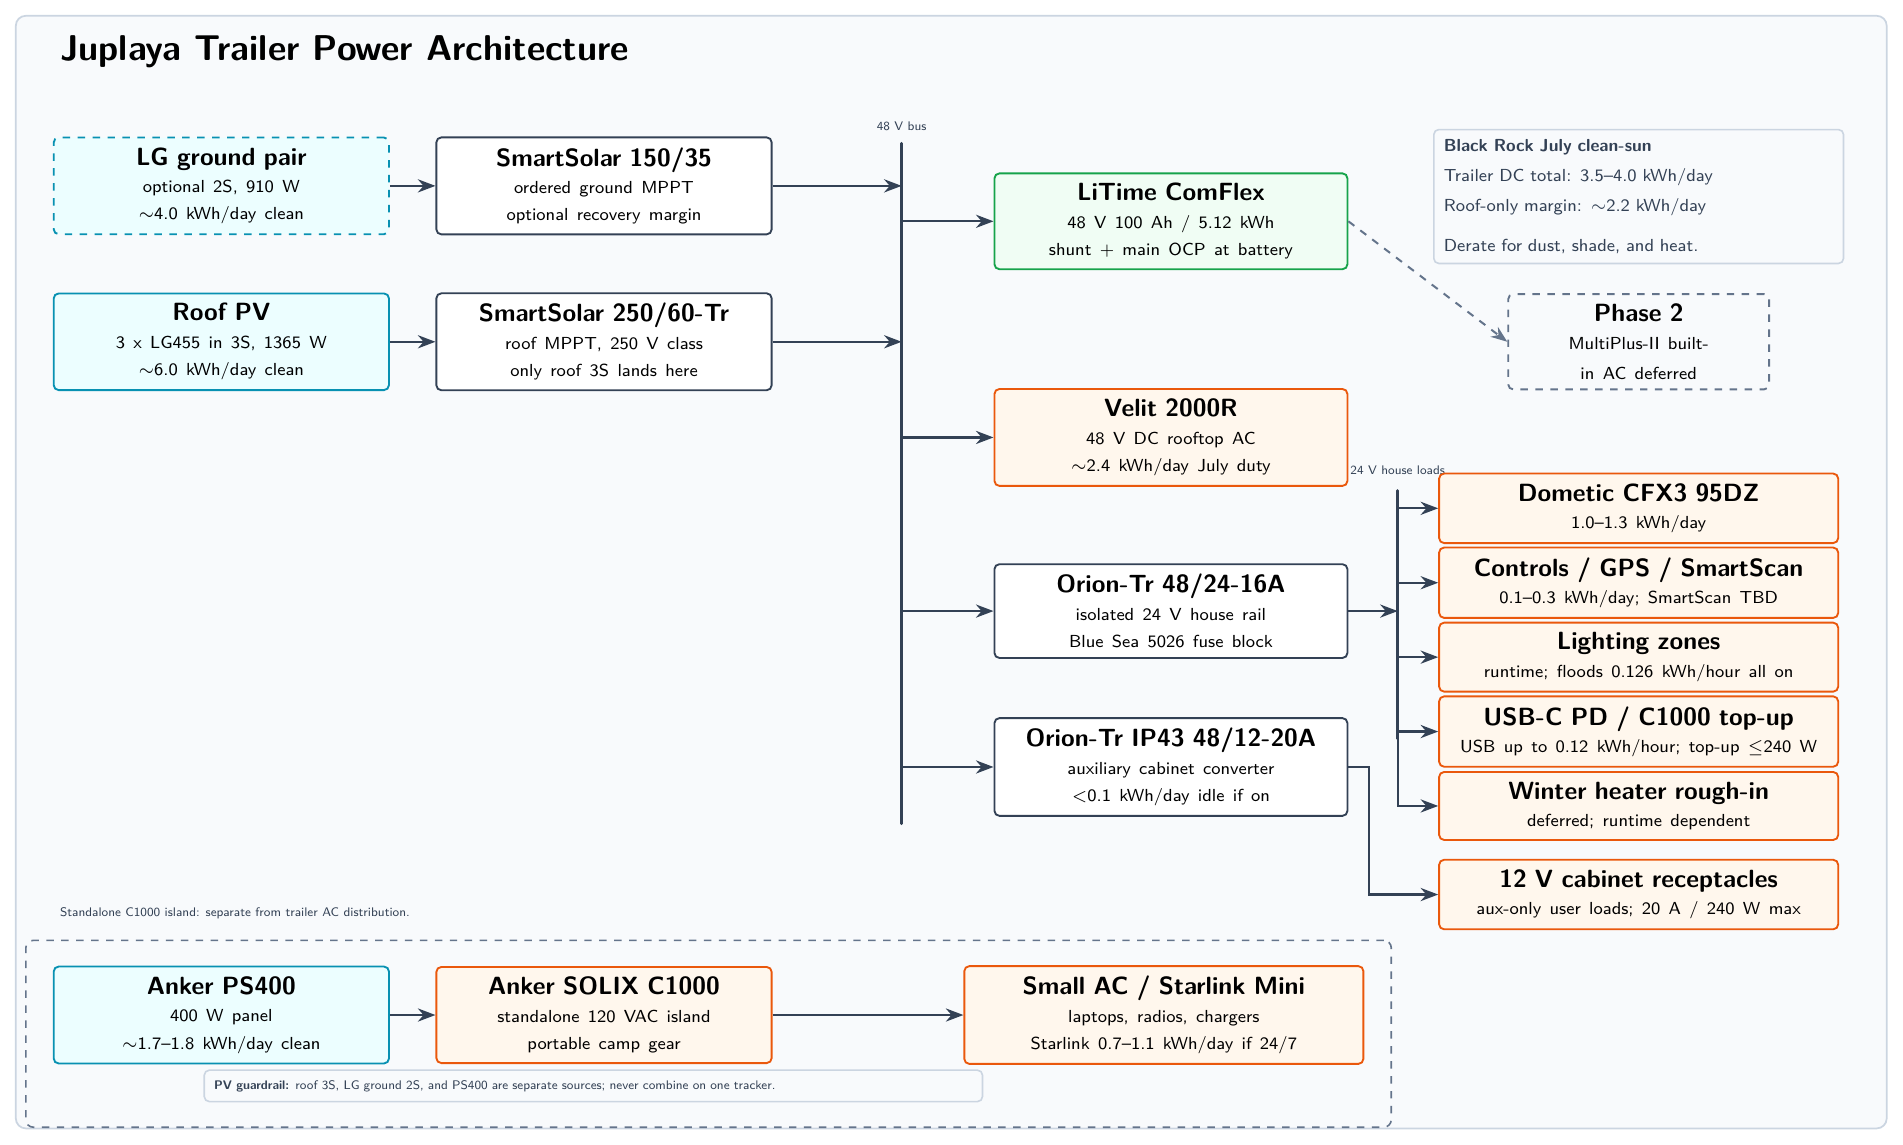
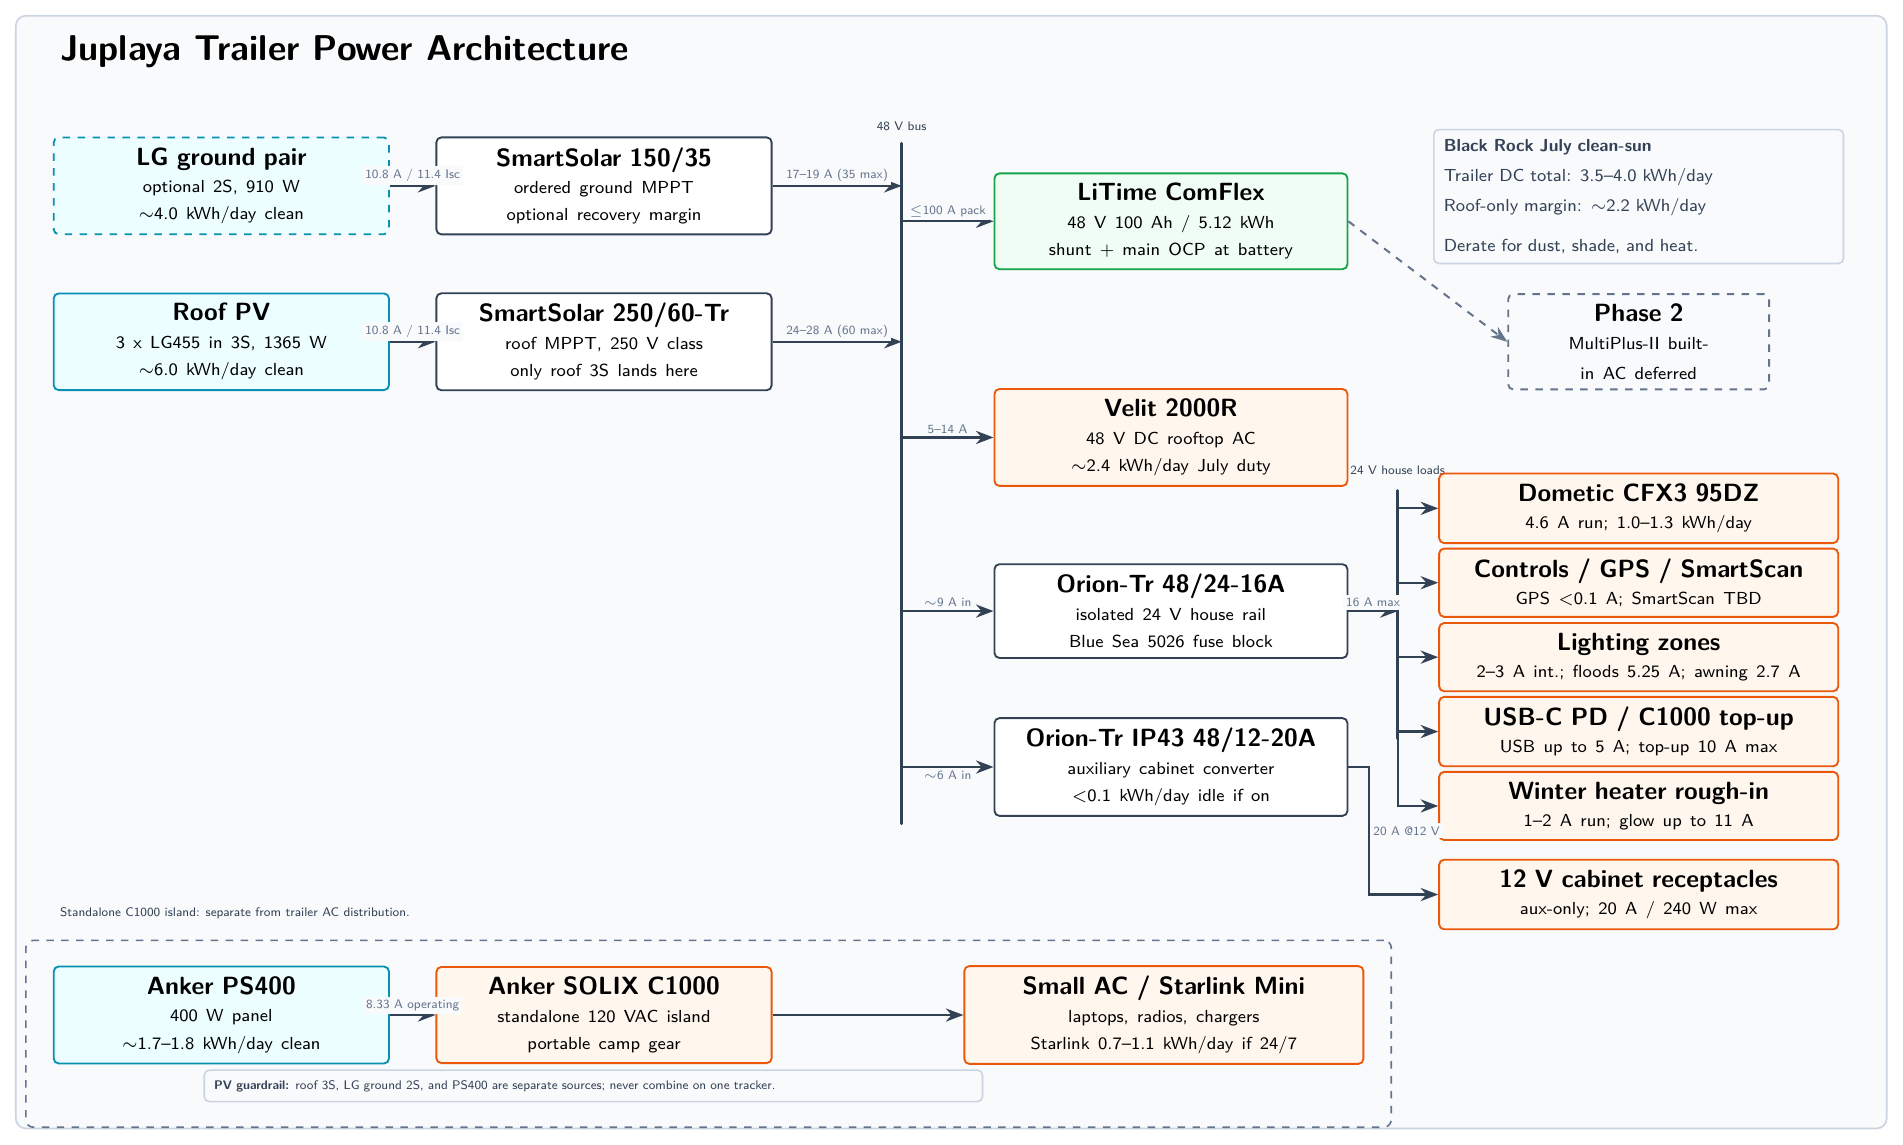
Add power lead calculations

diff --git a/docs/diagrams/power-lead-calculations.tex b/docs/diagrams/power-lead-calculations.tex
@@ -1,0 +1,103 @@
+\documentclass[10pt]{article}
+\usepackage[letterpaper,landscape,margin=0.45in]{geometry}
+\usepackage{array}
+\usepackage{booktabs}
+\usepackage{longtable}
+\usepackage{xcolor}
+\usepackage{hyperref}
+
+\definecolor{slate}{HTML}{334155}
+\definecolor{muted}{HTML}{64748B}
+\definecolor{lightrow}{HTML}{F8FAFC}
+
+\hypersetup{colorlinks=true, linkcolor=slate, urlcolor=slate}
+\renewcommand{\arraystretch}{1.15}
+\setlength{\tabcolsep}{2pt}
+\setlength{\parindent}{0pt}
+\setlength{\parskip}{4pt}
+\newcolumntype{L}[1]{>{\raggedright\arraybackslash}p{#1}}
+\emergencystretch=3em
+
+\begin{document}
+
+{\LARGE\bfseries Juplaya Trailer Power Lead Calculations}
+
+{\small Planning worksheet for the TikZ power overview. This is not a final wiring schematic or code sign-off. Fuse class, interrupt rating, insulation type, conduit/bundle derating, crimp hardware, strain relief, and exact route lengths still need the measured install drawing.}
+
+\section*{Inputs and Hot-Day Assumptions}
+
+\begin{tabular}{@{}p{0.24\linewidth}p{0.70\linewidth}@{}}
+\toprule
+Item & Value used \\
+\midrule
+Primary sources & Project source files listed below the assumptions table; numeric values come from the current power design and local component spec notes. \\
+Peak environment & Hot summer design ambient: 46 C / 115 F. Voltage-drop calculations use 75 C conductor resistance, so the assumed conductor rise for the drop calculation is \(\Delta T = 29\) C above ambient. \\
+Copper temperature correction & \(R_T = R_{20}[1 + 0.00393(T-20)]\), with \(T=75\) C. \\
+Voltage drop & \(V_{drop}=2LI R_T/1000\), where \(L\) is one-way length in ft and \(R_T\) is ohms per 1000 ft at 75 C. \\
+PV module current & LG455N2W-E6: \(I_{mpp}=10.83\) A and \(I_{sc}=11.39\) A. Series strings keep the same current. \\
+Charge-current convention & PV-string labels show string current. MPPT-to-battery labels show approximate 48 V charge current and controller output limit. \\
+Wire-size convention & ``Minimum / plan'' means the smallest conductor selected for this planning model after ampacity and voltage-drop screening. It is not permission to ignore OCP, terminal temperature, bundling, conduit fill, or manufacturer instructions. \\
+\bottomrule
+\end{tabular}
+
+{\footnotesize Source files: \texttt{docs/power.md}; LG455, Victron SmartSolar, Anker C1000/PS400, LiTime ComFlex, Dometic CFX3, and Orion reference notes under \texttt{docs/reference/}; Velit current range from \texttt{docs/research/aio-inverter-3panel-evidence-2026-06-05.md}.}
+
+\section*{Peak Current Notes}
+
+\begin{itemize}
+\item Roof PV: \(3 \times 455\) W = 1365 W. Approximate 48 V charge current is 1365 W / 48 V = 28.4 A; at 57.6 V absorption it is 23.7 A. The SmartSolar 250/60-Tr output limit is 60 A.
+\item Optional LG ground PV: \(2 \times 455\) W = 910 W. Approximate 48 V charge current is 19.0 A at 48 V and 15.8 A at 57.6 V. The SmartSolar 150/35 output limit is 35 A.
+\item Velit 2000R: source notes carry about 5--14 A at 48 V, rated about 670 W. Use 14 A for branch voltage-drop sizing until the final manual/fuse value is confirmed.
+\item 24 V bus: the Orion-Tr 48/24-16A is the hard rail limit. Fridge + normal lighting + USB fits; all floods, full awning, USB-C full load, optional C1000 top-up, and heater glow do not fit simultaneously.
+\item Phase 2 MultiPlus is deferred. If AC charging is added later, combined trailer charging must still be capped at or below the 100 A ComFlex charge limit.
+\end{itemize}
+
+\section*{Lead Sizing Worksheet}
+
+{\scriptsize
+\begin{longtable}{@{}L{0.18\linewidth}L{0.12\linewidth}L{0.07\linewidth}L{0.08\linewidth}L{0.12\linewidth}L{0.10\linewidth}L{0.11\linewidth}L{0.13\linewidth}@{}}
+\toprule
+Lead & Current basis & Circuit V & Assumed one-way length & Required ampacity basis & Minimum / plan conductor & Worst-case drop at 75 C & Notes \\
+\midrule
+\endfirsthead
+\toprule
+Lead & Current basis & Circuit V & Assumed one-way length & Required ampacity basis & Minimum / plan conductor & Worst-case drop at 75 C & Notes \\
+\midrule
+\endhead
+Roof 3S PV string to SmartSolar 250/60-Tr & 10.83 A MPP; 11.39 A Isc & 126.3 Vmp & 20 ft & PV conductor and OCP at or above 20 A module series-fuse class & 10 AWG / 2.59 mm & 0.53 V / 0.4\% & 3S raises voltage; current stays one-panel current. \\
+Optional LG ground 2S string to SmartSolar 150/35 & 10.83 A MPP; 11.39 A Isc & 84.2 Vmp & 50 ft & PV conductor and OCP at or above 20 A module series-fuse class & 10 AWG / 2.59 mm & 1.32 V / 1.6\% & Portable length assumption; measure actual deployable lead. \\
+SmartSolar 250/60-Tr to 48 V bus & 24--28 A expected; 60 A controller limit & 57.6 V charge & 4 ft & 60 A controller output & 6 AWG / 4.12 mm & 0.23 V / 0.4\% & Size OCP to controller and conductor, not average harvest. \\
+SmartSolar 150/35 to 48 V bus & 16--19 A expected; 35 A controller limit & 57.6 V charge & 4 ft & 35 A controller output & 8 AWG / 3.26 mm & 0.21 V / 0.4\% & Optional source, but full-output conductor basis. \\
+Battery main OCP / shunt / 48 V bus & 100 A continuous pack limit & 51.2 V nominal & 3 ft & 100 A charge/discharge limit, plus interrupt-rating gate & 2 AWG / 6.54 mm & 0.11 V / 0.2\% & Main OCP class and interrupt rating remain open. \\
+48 V bus to Velit 2000R branch & 5--14 A operating range & 48 V nominal & 15 ft & At least 14 A plus final Velit OCP value & 12 AWG / 2.05 mm & 0.81 V / 1.7\% & Use final Velit manual/fuse value when available. \\
+48 V bus to Orion 48/24 input & About 9.2 A at 384 W output and 87\% assumed efficiency & 48 V nominal & 4 ft & 20 A input breaker class from build notes & 12 AWG / 2.05 mm & 0.14 V / 0.3\% & Efficiency is assumed pending exact 48/24 datasheet row. \\
+Orion 24 V output to Blue Sea 5026 & 16 A converter output limit & 24 V regulated & 3 ft & 16 A rail output & 12 AWG / 2.05 mm & 0.19 V / 0.8\% & Converter is the bus bottleneck. \\
+Fridge branch & 4.6 A running & 24 V regulated & 18 ft & 10 A branch fuse; 3\% voltage-drop target & 14 AWG / 1.63 mm & 0.51 V / 2.1\% & Matches current build note if one-way run stays near 18 ft. \\
+Longest lighting/flood trunk & 8 A planning trunk load & 24 V regulated & 35 ft & 5 A per branch; trunk must match aggregate branch plan & 10 AWG / 2.59 mm & 0.68 V / 2.8\% & Long exterior runs drive the size; local zones may be smaller. \\
+USB-C PD branch & 5 A full USB-C load & 24 V regulated & 12 ft & 7.5 A branch fuse & 14 AWG / 1.63 mm & 0.37 V / 1.5\% & Full USB-C load is a short-duration worst case. \\
+Optional C1000 top-up from 24 V bus & 10 A C1000 low-voltage input limit & 24 V regulated & 8 ft & 10 A manual/fused branch & 12 AWG / 2.05 mm & 0.31 V / 1.3\% & Discretionary; shed before it starves fridge/house loads. \\
+Winter heater rough-in & 1--2 A run; up to 11 A glow estimate & 24 V regulated & 25 ft & 15 A rough-in branch & 10 AWG / 2.59 mm & 0.67 V / 2.8\% & Docs mention 12 AWG; 10 AWG is the voltage-drop planning pick at this assumed length. \\
+48 V bus to Orion 48/12 input & 5.8 A at 240 W output and 87\% efficiency & 48 V nominal & 4 ft & Input OCP sized to converter and conductor & 14 AWG / 1.63 mm & 0.14 V / 0.3\% & 12 V receptacles stay cabinet-local only. \\
+12 V cabinet receptacle bank & 20 A / 240 W converter output & 12.2 V regulated & 3 ft & 20 A converter output, branches fused individually & 12 AWG / 2.05 mm & 0.23 V / 1.9\% & Keep physically short; do not distribute a 12 V house rail. \\
+Anker PS400 to C1000 & 8.33 A operating; C1000 high-range input allows 12.5 A & 48 V operating & 15 ft & Anker cable/input rating & 10 AWG / 2.59 mm & 0.30 V / 0.6\% & Separate portable island; never combine with LG strings. \\
+\bottomrule
+\end{longtable}
+}
+
+\section*{Load-Shedding Implications}
+
+The 24 V rail cannot be sized by summing every optional load and pretending they are simultaneous. A literal worst case is fridge 4.6 A + interior lights 3 A + all exterior floods 5.25 A + awning strip 2.7 A + USB-C 5 A + C1000 top-up 10 A = 30.55 A before heater glow. That is almost twice the 16 A Orion limit. The operating rule is therefore part of the electrical design: C1000 top-up, all-floods mode, full USB-C load, and heater glow are mutually managed loads.
+
+The roof and ground MPPT outputs are the opposite case: normal current is below controller capacity, but the conductor/OCP basis should follow controller output limits. Roof plus optional ground charging at expected full-array output is roughly 40--47 A depending on battery voltage. If both controllers are allowed to their hardware limits, they can contribute up to 95 A, still below the ComFlex 100 A charge cap, but leaving no room for a future AC charger.
+
+\section*{Open Measurements Before Final Wiring}
+
+\begin{itemize}
+\item Replace every assumed one-way length with measured route length after the nose cabinet, roof gland, Velit station, fridge bay, switch panel, and exterior lighting paths are fixed.
+\item Confirm conductor insulation temperature rating, strand class, terminal temperature limits, conduit or loom bundling, and whether any wire runs share hot cabinet air.
+\item Choose final 48 V OCP hardware with adequate DC interrupt rating. The main battery OCP remains a Class-T-or-equivalent gate.
+\item Bench-measure SmartScan and winter-heater glow current before making them part of a simultaneous-load case.
+\item After shakedown, measure voltage at the load while hot and loaded; the calculated drops are only as good as the assumed lengths and terminations.
+\end{itemize}
+
+\end{document}

diff --git a/docs/diagrams/power-overview.tex b/docs/diagrams/power-overview.tex
@@ -43,6 +43,13 @@
     font=\sffamily\tiny,
     text=slate
   },
+  leadlabel/.style={
+    font=\sffamily\tiny,
+    text=slateLight,
+    fill=noteFill,
+    inner sep=1.2pt,
+    align=center
+  },
   island/.style={
     draw=slateLight,
     fill=noteFill,
@@ -122,27 +129,27 @@
 
 \node[load, text width=5.35cm, minimum height=0.8cm] (fridge) at (22.65,9.00)
   {{\bfseries Dometic CFX3 95DZ}\\[-1pt]
-   {\scriptsize 1.0--1.3 kWh/day}};
+   {\scriptsize 4.6 A run; 1.0--1.3 kWh/day}};
 
 \node[load, text width=5.35cm, minimum height=0.8cm] (controls) at (22.65,7.95)
   {{\bfseries Controls / GPS / SmartScan}\\[-1pt]
-   {\scriptsize 0.1--0.3 kWh/day; SmartScan TBD}};
+   {\scriptsize GPS \(<\)0.1 A; SmartScan TBD}};
 
 \node[load, text width=5.35cm, minimum height=0.8cm] (lights) at (22.65,6.90)
   {{\bfseries Lighting zones}\\[-1pt]
-   {\scriptsize runtime; floods 0.126 kWh/hour all on}};
+   {\scriptsize 2--3 A int.; floods 5.25 A; awning 2.7 A}};
 
 \node[load, text width=5.35cm, minimum height=0.8cm] (usb) at (22.65,5.85)
   {{\bfseries USB-C PD / C1000 top-up}\\[-1pt]
-   {\scriptsize USB up to 0.12 kWh/hour; top-up \(\le\)240 W}};
+   {\scriptsize USB up to 5 A; top-up 10 A max}};
 
 \node[load, text width=5.35cm, minimum height=0.8cm] (heater) at (22.65,4.80)
   {{\bfseries Winter heater rough-in}\\[-1pt]
-   {\scriptsize deferred; runtime dependent}};
+   {\scriptsize 1--2 A run; glow up to 11 A}};
 
 \node[load, text width=5.35cm, minimum height=0.8cm] (cab12) at (22.65,3.55)
   {{\bfseries 12 V cabinet receptacles}\\[-1pt]
-   {\scriptsize aux-only user loads; 20 A / 240 W max}};
+   {\scriptsize aux-only; 20 A / 240 W max}};
 
 \node[phase, text width=3.4cm, minimum height=1.0cm] (phase2) at (22.65,11.35)
   {{\bfseries Phase 2}\\[-1pt]
@@ -180,24 +187,24 @@
 \end{scope}
 
 % Power-flow arrows.
-\draw[arr] (groundpv.east) -- (groundmppt.west);
-\draw[arr] (groundmppt.east) -- (busGround);
-\draw[arr] (roofpv.east) -- (roofmppt.west);
-\draw[arr] (roofmppt.east) -- (busRoof);
-\draw[arr] (busBattery) -- (battery.west);
-\draw[arr] (busVelit) -- (velit.west);
-\draw[arr] (busOrion24) -- (orion24.west);
-\draw[arr] (busOrion12) -- (orion12.west);
-\draw[arr] (orion24.east) -- (19.25,7.55);
+\draw[arr] (groundpv.east) -- node[leadlabel, above] {10.8 A / 11.4 Isc} (groundmppt.west);
+\draw[arr] (groundmppt.east) -- node[leadlabel, above] {17--19 A (35 max)} (busGround);
+\draw[arr] (roofpv.east) -- node[leadlabel, above] {10.8 A / 11.4 Isc} (roofmppt.west);
+\draw[arr] (roofmppt.east) -- node[leadlabel, above] {24--28 A (60 max)} (busRoof);
+\draw[arr] (busBattery) -- node[leadlabel, above] {\(\le\)100 A pack} (battery.west);
+\draw[arr] (busVelit) -- node[leadlabel, above] {5--14 A} (velit.west);
+\draw[arr] (busOrion24) -- node[leadlabel, above] {\(\sim\)9 A in} (orion24.west);
+\draw[arr] (busOrion12) -- node[leadlabel, below] {\(\sim\)6 A in} (orion12.west);
+\draw[arr] (orion24.east) -- node[leadlabel, above] {16 A max} (19.25,7.55);
 \draw[arr] (19.25,9.00) -- (fridge.west);
 \draw[arr] (19.25,7.95) -- (controls.west);
 \draw[arr] (19.25,6.90) -- (lights.west);
 \draw[arr] (19.25,5.85) -- (usb.west);
 \draw[arr] (19.25,5.75) |- (heater.west);
-\draw[arr] (orion12.east) -- (18.85,5.35) -- (18.85,3.55) -- (cab12.west);
+\draw[arr] (orion12.east) -- (18.85,5.35) -- node[leadlabel, right] {20 A @12 V} (18.85,3.55) -- (cab12.west);
 \draw[softarr] (battery.east) -- (phase2.west);
 
-\draw[arr] (ps400.east) -- (c1000.west);
+\draw[arr] (ps400.east) -- node[leadlabel, above] {8.33 A operating} (c1000.west);
 \draw[arr] (c1000.east) -- (acloads.west);
 
 \end{tikzpicture}

diff --git a/docs/diagrams/power-overview-qa.md b/docs/diagrams/power-overview-qa.md
@@ -8,6 +8,11 @@ Artifacts:
 - `docs/diagrams/power-overview.pdf`
 - `docs/diagrams/power-overview.png`
 - `docs/diagrams/power-overview-visual-qa.json`
+- `docs/diagrams/power-lead-calculations.tex`
+- `docs/diagrams/power-lead-calculations.pdf`
+- `docs/diagrams/power-lead-calculations-1.png`
+- `docs/diagrams/power-lead-calculations-2.png`
+- `docs/diagrams/power-lead-calculations-3.png`
 
 Sources checked:
 
@@ -20,15 +25,17 @@ Sources checked:
 Checks:
 
 - Static TikZ safety: pass.
-- Compile/render: pass with `xelatex` through the `tikz-diagrams` `compile_render.py` helper.
+- Overview compile/render: pass with `xelatex` through the `tikz-diagrams` `compile_render.py` helper.
 - Rendered visual QA: pass in research mode.
-- Manual PNG inspection: no severe text overlap, clipping, blank output, route crossing through labels, or slide-fit failure found after the final render.
+- Calculation sheet compile: pass with `latexmk -xelatex`.
+- Calculation sheet page renders: pass with `pdftoppm`; pages inspected manually.
+- Manual PNG inspection: no severe text overlap, clipping, blank output, route crossing through labels, table clipping, or slide-fit failure found after the final render.
 
 Design critique outcome: keep.
 
-Math/diagram logic review: schematic.
+Math/diagram logic review: schematic for topology; exact arithmetic within stated assumptions for the lead-current and voltage-drop worksheet.
 
-Model or equations: no plotted equations or scale geometry. Numeric labels are sourced planning estimates from `docs/power.md`.
+Model or equations: no plotted equations or scale geometry. Numeric labels are sourced planning estimates from `docs/power.md` and local reference notes. Voltage-drop rows use \(V_{drop}=2LI R_T/1000\) with copper resistance corrected to 75 C.
 
 Checked invariants:
 
@@ -40,10 +47,13 @@ Checked invariants:
 - Orion-Tr 48/24 feeds the 24 V house loads.
 - Orion-Tr IP43 48/12 feeds only auxiliary 12 V cabinet receptacles.
 - C1000 top-up is represented as optional/discretionary from the 24 V side and capped at 240 W.
+- Lead-current labels distinguish PV string current from MPPT battery-side output current.
+- The 24 V bus is represented as converter-limited at 16 A; optional C1000 top-up, full-flood mode, full USB-C load, and heater glow are not treated as simultaneous steady loads.
 
 Schematic limits:
 
 - This is a topology and energy-context diagram, not a wiring schematic.
-- It does not specify final wire gauges, disconnects, fuse part numbers, breaker SKUs, or connector variants.
+- The calculation sheet proposes planning conductor sizes from assumed run lengths; it does not finalize wire gauges, disconnects, fuse part numbers, breaker SKUs, insulation class, terminal temperature limits, bundling derates, or connector variants.
 - kWh/day labels are Black Rock July clean-sun planning estimates; dust, shade, heat, and runtime change actual yield and draw.
 - SmartScan remains TBD/measure; no undocumented draw was invented.
+- Exact cable run lengths remain placeholders until the measured roof/cabinet/interior routing is fixed.